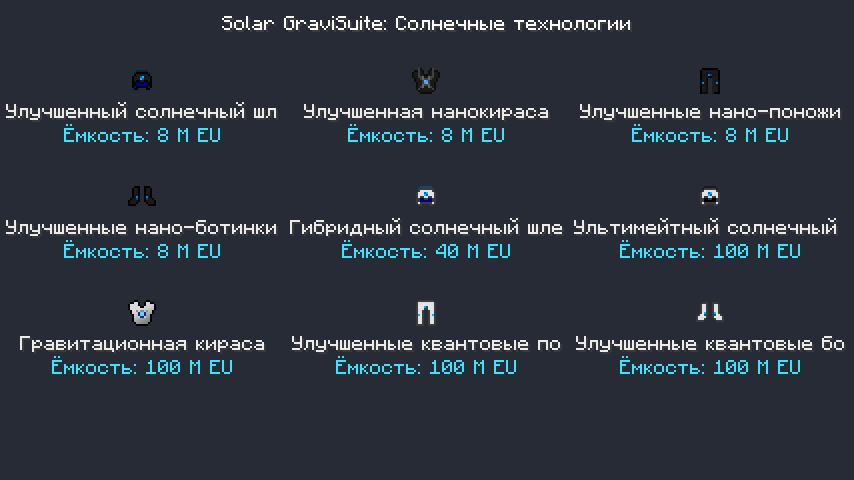
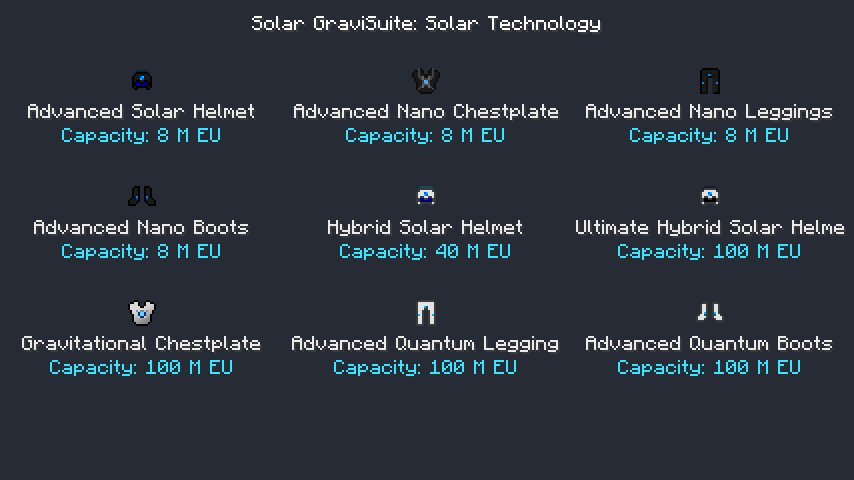
Use English client screenshots in public documentation

diff --git a/README.md b/README.md
@@ -167,7 +167,7 @@ item / world / GUI captures and exits. Prepare this isolated world by copying `r
 `run/saves/SolarClientSmoke` after a server test run. The developer harness is disabled unless
 explicitly enabled and clears old test inventories / dropped items / armor stands.
 
-A real Russian-locale client with IC2R 21.1.67 and JEI 19.64.0.455 loads the combined mod,
+A real English-locale client with IC2R 21.1.67 and JEI 19.64.0.455 loads the combined mod,
 renders both complete armor sets and blue leg / boot details, and opens the transformer GUI.
 The screenshots above were captured from that client.
 
